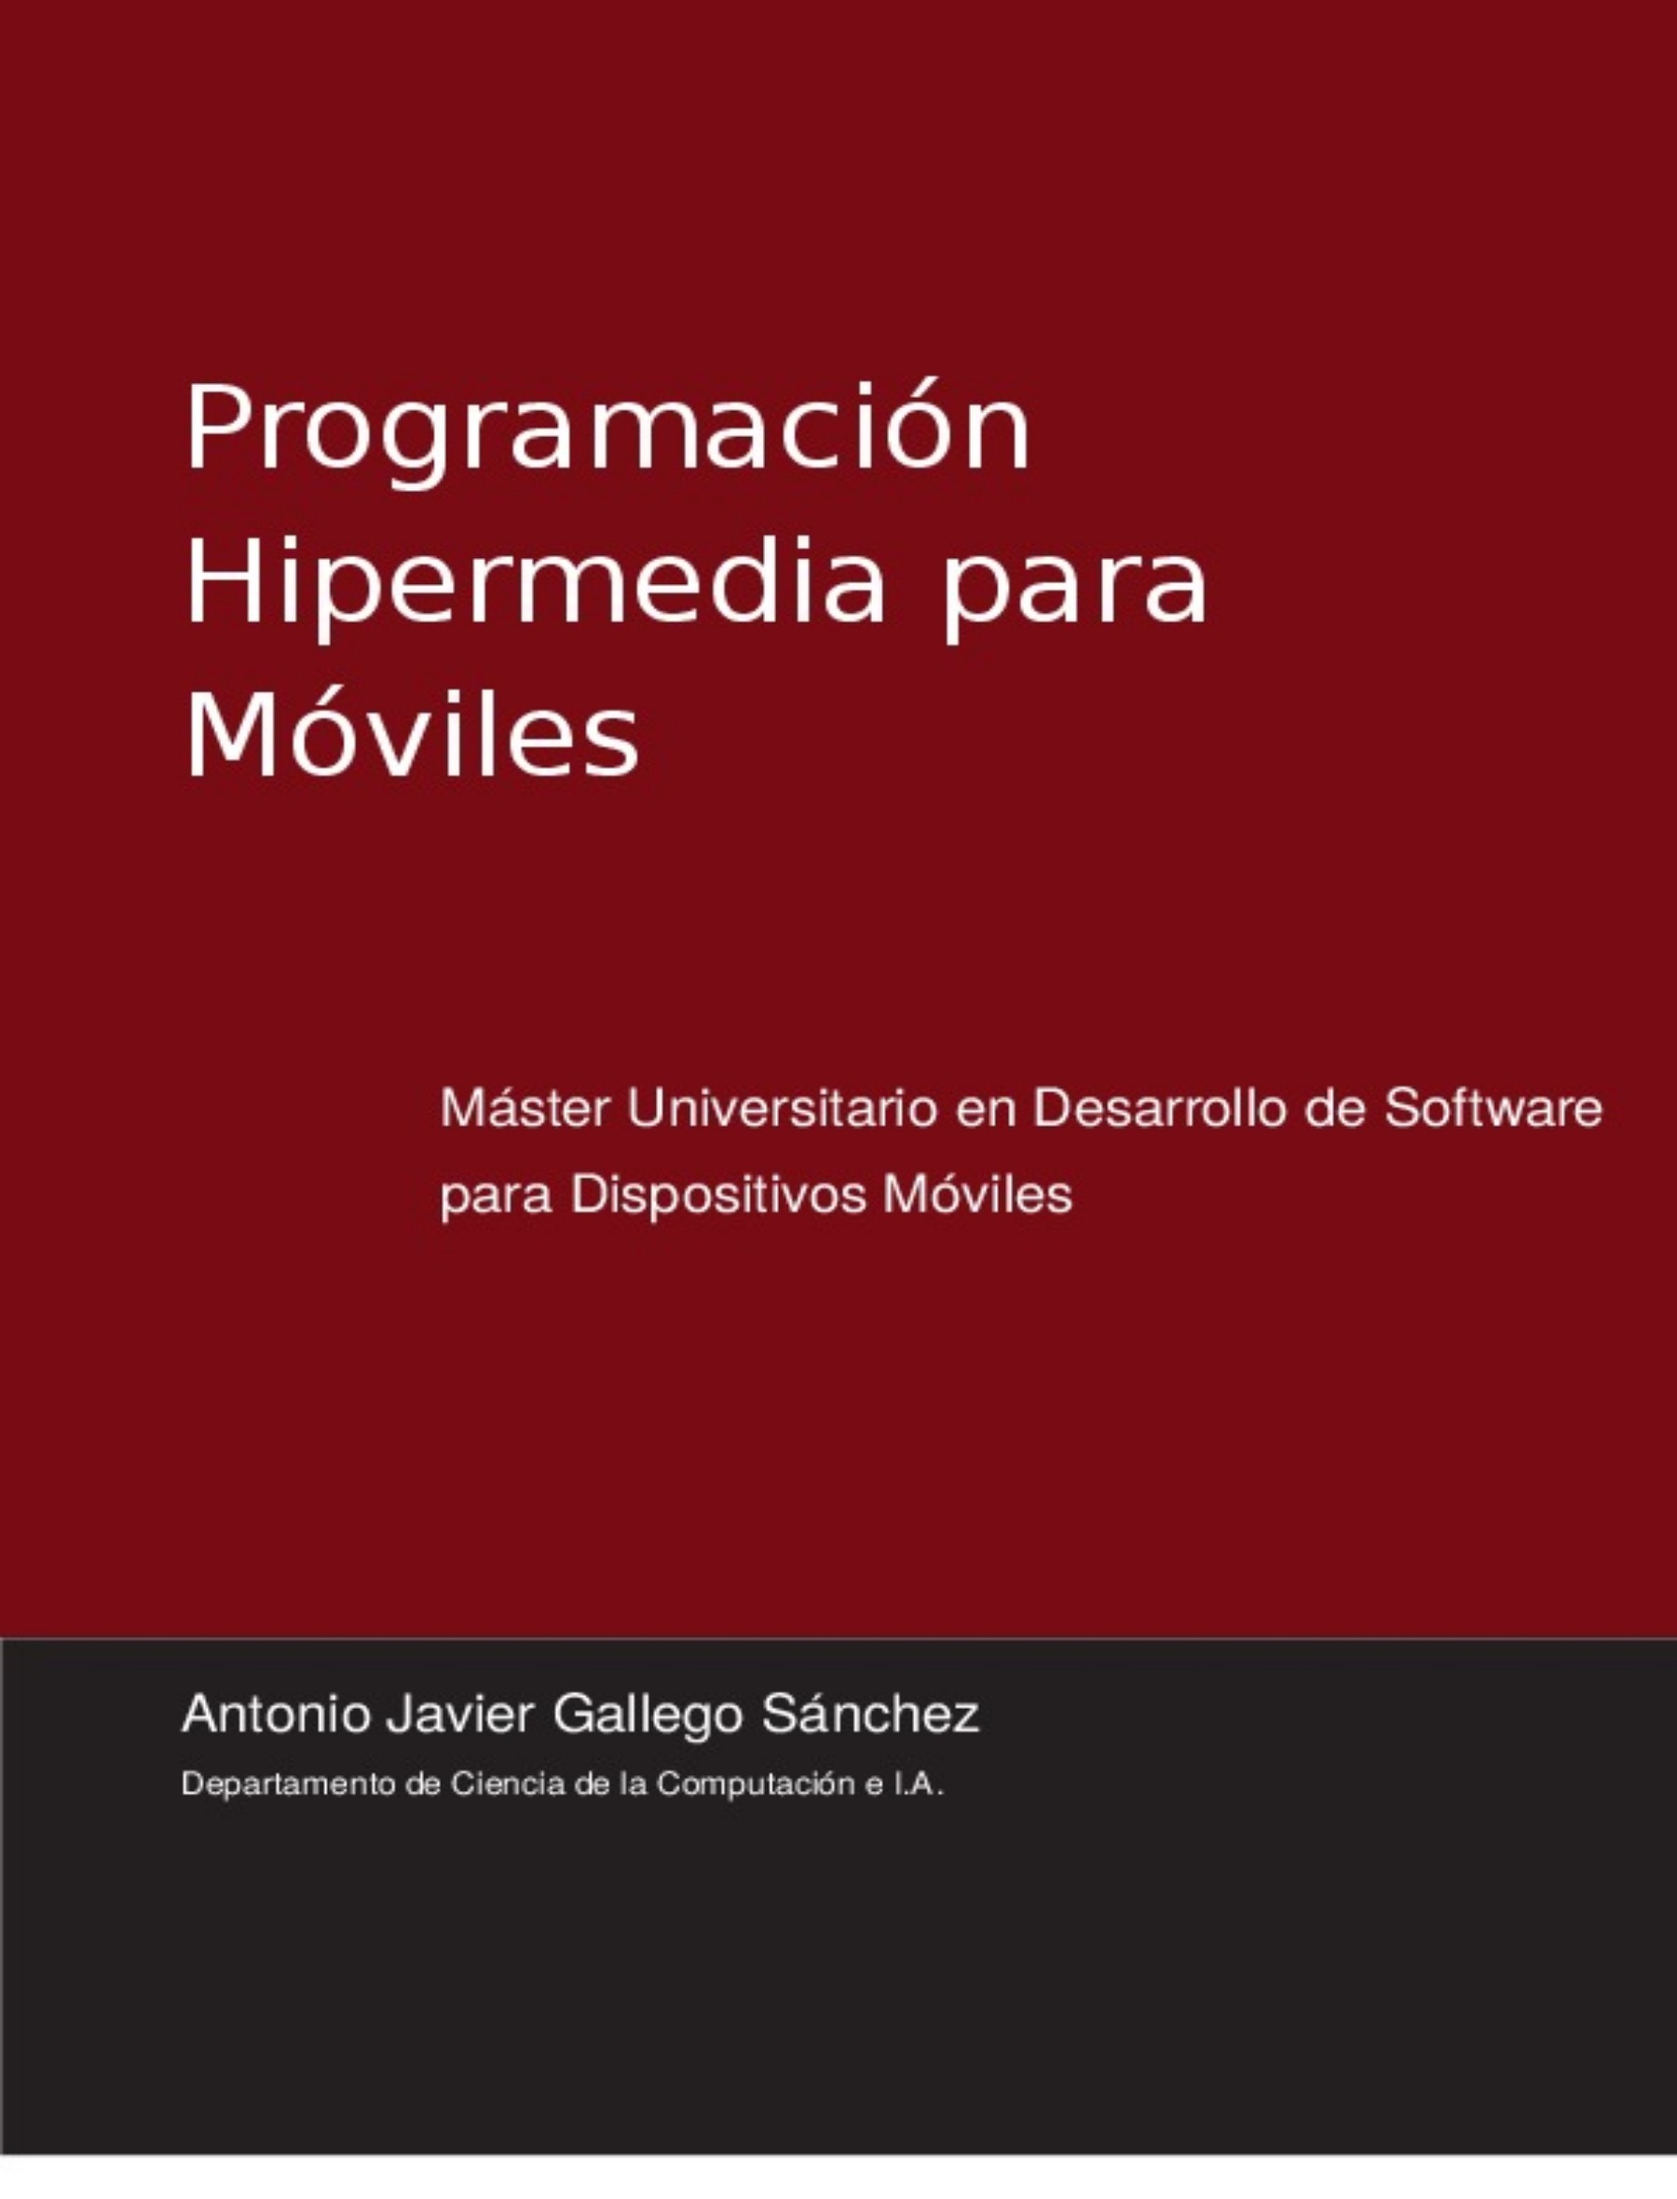
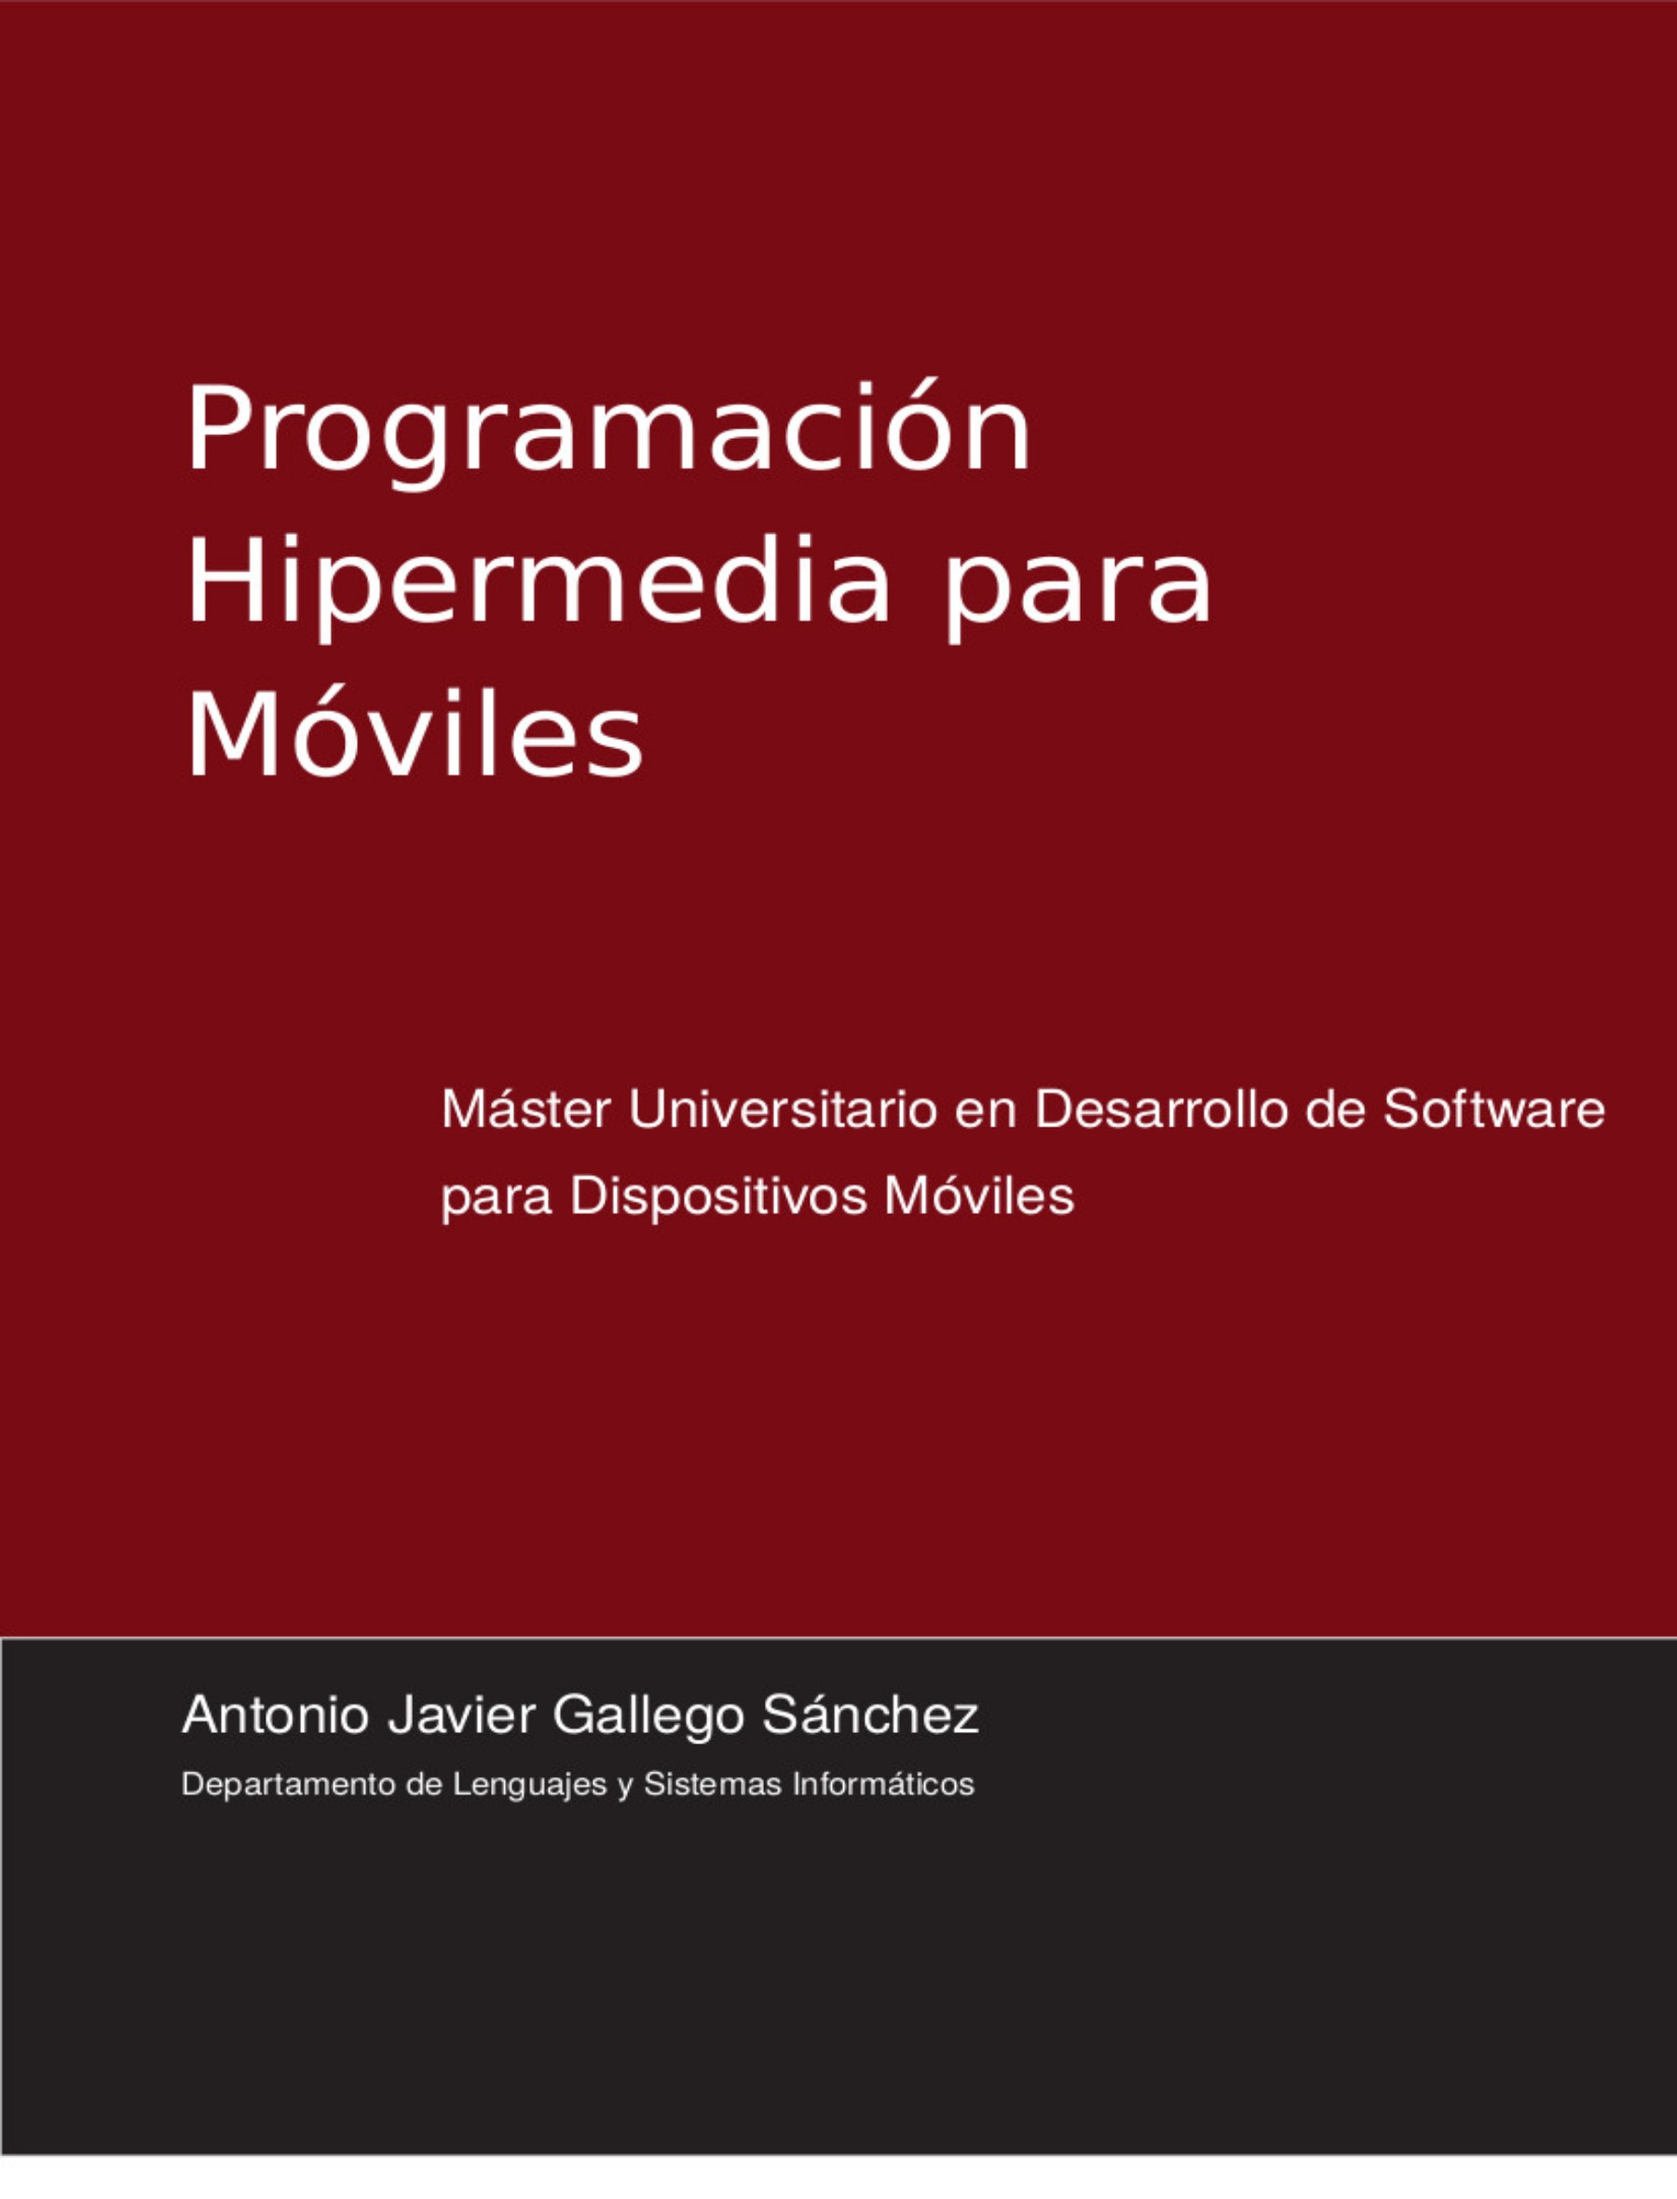
update cover with department

diff --git a/capitulo_rest_android.md b/capitulo_rest_android.md
@@ -73,10 +73,10 @@ Hemos visto cómo realizar una petición GET, tal como se vio en sesiones anteri
 
 ```java
 HttpClient client = new DefaultHttpClient();
+HttpPost post = new HttpPost("http://<dominio>/recurso");
 
-HttpPost post = new HttpPost("http://<dominio>/peliculas");
-
-StringEntity se = new StringEntity(" [contenido xml] ");
+String XMLcontent = "[contenido xml]";
+StringEntity se = new StringEntity( XMLcontent, HTTP.UTF_8); // Es importante indicar la codificación
 se.setContentType("application/xml");    // O "application/json"
 
 post.setEntity(se);
@@ -212,7 +212,15 @@ El objeto `JSONArray` nos permite conocer el número de elementos que contiene (
 
 Los objetos (`JSONObject`) tienen una serie de campos, a los que también se accede mediante una serie de métodos `get-` que pueden ser de los mismos tipos que en el caso de las listas. En el ejemplo anterior son cadenas (_texto_, y _usuario_), pero podrían ser listas u otros objetos anidados.
 
-Esta librería no sólo nos permite analizar JSON, sino que también podemos componer mensajes con este formato. Los objetos `JSONObject` y `JSONArray` tienen para cada método `get-`, un método `put-` asociado que nos permite añadir campos o elementos. Una vez añadida la información necesaria, podemos obtener el texto JSON mediante el método `toString()` de los objetos anteriores.
+Esta librería no sólo nos permite analizar JSON, sino que también podemos componer mensajes con este formato. Los objetos `JSONObject` y `JSONArray` tienen para cada método `get-`, un método `put-` asociado que nos permite añadir campos o elementos. Una vez añadida la información necesaria, podemos obtener el texto JSON mediante el método `toString()` de los objetos anteriores. A continuación se incluye un ejemplo:
+
+```java
+JSONObject jobj = new JSONObject();
+jobj.put("texto", "Texto de prueba");
+jobj.put("usuario", "Juan" );
+
+String json = jobj.toString();
+``` 
 
 Además es importante que capturemos las excepciones al procesar cadenas en JSON ya que en caso de intentar obtener un tipo de elemento que no estuviera presente se lanzaría una excepción del tipo `JSONException`.
 

diff --git a/capitulo_laravel_5.md b/capitulo_laravel_5.md
@@ -281,7 +281,7 @@ $ curl -i -H "Accept: application/json" -H "Content-Type: application/json" http
 $ curl -i -H "Accept: application/xml" -H "Content-Type: application/xml" http://localhost/resource
 ```
 
-Por ejemplo, si queremos realizar una petición tipo POST que envíe código JSON y que también espere la respuesta en JSON tendríamos que indicar ambas cabeceras y añadir el JSON que queramos en los parámetros con `i` de forma normal:
+Por ejemplo, si queremos realizar una petición tipo POST que envíe código JSON y que también espere la respuesta en JSON tendríamos que indicar ambas cabeceras y añadir el JSON que queramos en los parámetros con `-d` de forma normal:
 
 ```bash
 $ curl -i -H "Accept: application/json" -H "Content-Type: application/json" -X POST -d '{"title":"xyz","year":"xyz"}' http://localhost/resource

diff --git a/capitulo_phonegap_avanzado.md b/capitulo_phonegap_avanzado.md
@@ -835,7 +835,7 @@ navigator.compass.clearWatch(watchID);
 
 
 <!-- ********************************************************************* -->
-## Ejercicio 1 - Usando la API de PhoneGap (0.5 puntos)
+## Ejercicio 1 - Configuración de PhoneGap (0.5 puntos)
 
 Para completar el último ejercicio se pide que realicéis los siguientes pasos para todas las aplicaciones:
 
